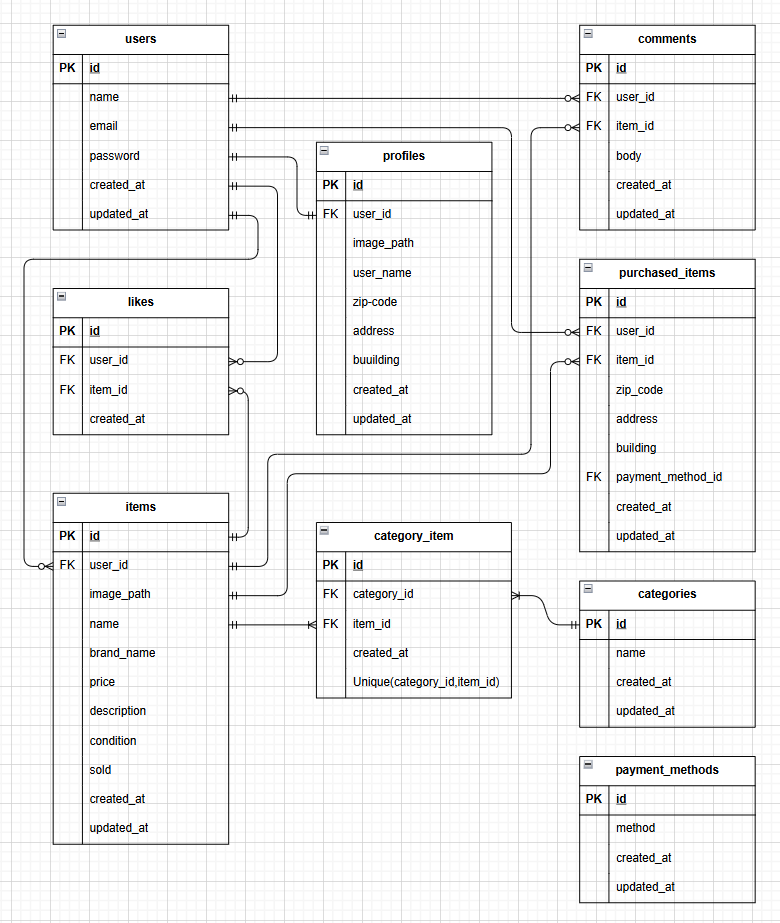
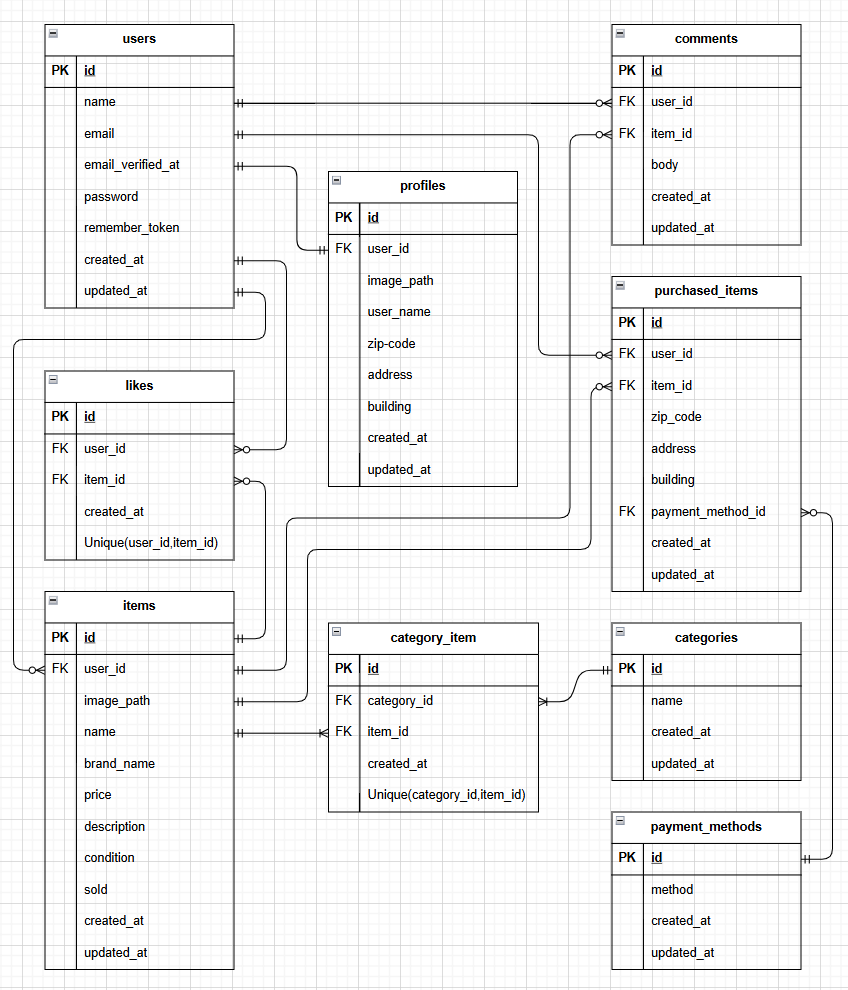
Controller,erd編集

diff --git a/src/app/Http/Controllers/PurchaseController.php b/src/app/Http/Controllers/PurchaseController.php
@@ -16,19 +16,15 @@ use Illuminate\Support\Facades\DB;
 
 class PurchaseController extends Controller
 {
-    /**
-     * 1. 購入ボタン押下：Stripe決済画面へリダイレクト
-     */
     public function checkout(PurchaseRequest $request, $id)
     {
         Stripe::setApiKey(env('STRIPE_SECRET'));
 
         $item = Item::findOrFail($id);
         
-        // フォーム(name="payment_method")から支払い方法を取得
-        $paymentMethod = PaymentMethod::find($request->payment_method);
+        $paymentMethodId = $request->input('payment_method');
+        $paymentMethod = PaymentMethod::findOrFail($paymentMethodId);
 
-        // 支払い方法に応じてStripeの画面を切り替える
         $types = ['card'];
         if ($paymentMethod && $paymentMethod->method === 'コンビニ払い') {
             session(['purchase_item_id' => $id]);
@@ -46,22 +42,18 @@ class PurchaseController extends Controller
                 'quantity' => 1,
             ]],
             'mode' => 'payment',
-            // success_urlは必須パラメータです。スペルに注意してください。
             'success_url' => route('purchase.success') . '?session_id={CHECKOUT_SESSION_ID}',
             'cancel_url' => route('items.show', $id),
             'metadata' => [
                 'item_id'           => $id,
                 'user_id'           => Auth::id(),
-                'payment_method_id' => $paymentMethodId, // 選択されたIDをStripeへ預ける
+                'payment_method_id' => $paymentMethodId,
             ],
         ]);
 
         return redirect($session->url);
     }
 
-    /**
-     * 2. 決済完了後：DB更新と保存処理
-     */
     public function success(Request $request)
     {
         $sessionId = $request->get('session_id');
@@ -85,8 +77,8 @@ class PurchaseController extends Controller
         }
 
         else {
-            $itemId          = $request->session()->get('purchase_item_id');
-            $userId          = Auth::id();
+            $itemId = $request->session()->get('purchase_item_id');
+            $userId = Auth::id();
 
             $konbini = PaymentMethod::where('method', 'コンビニ払い')->first();
             $paymentMethodId = $konbini ? $konbini->id : null;
@@ -111,10 +103,8 @@ class PurchaseController extends Controller
             }
 
             DB::transaction(function () use ($item, $user, $shippingAddress, $paymentMethodId, $request) {
-                // ① itemsテーブルのsoldをtrueにする
                 $item->update(['sold' => true]);
     
-                // ② purchased_itemsテーブルに保存
                 PurchasedItem::create([
                     'user_id'           => $user->id,
                     'item_id'           => $item->id,
@@ -124,7 +114,6 @@ class PurchaseController extends Controller
                     'building' => $shippingAddress['building'] ?? null,
                 ]);
     
-                // 使い終わった住所セッションを削除
                 $request->session()->forget(['shipping_address', 'purchase_item_id', 'selected_payment_method_id']);
             });
     

diff --git a/src/database/migrations/2026_01_24_163413_create_category_item_table.php b/src/database/migrations/2026_01_24_163413_create_category_item_table.php
@@ -18,6 +18,7 @@ class CreateCategoryItemTable extends Migration
             $table->foreignId('category_id')->constrained()->cascadeOnDelete();
             $table->foreignId('item_id')->constrained()->cascadeOnDelete();
             $table->timestamp('created_at')->useCurrent()->nullable();
+            $table->unique(['category_id', 'item_id']);
         });
     }
 

diff --git a/src/app/Http/Controllers/ItemController.php b/src/app/Http/Controllers/ItemController.php
@@ -33,7 +33,6 @@ class ItemController extends Controller
     }
 
     if ($tab === 'mylist') {
-
         $items = auth()->check()
             ? auth()->user()->favoriteItems()
                 ->where('items.user_id', '!=', $userId)
